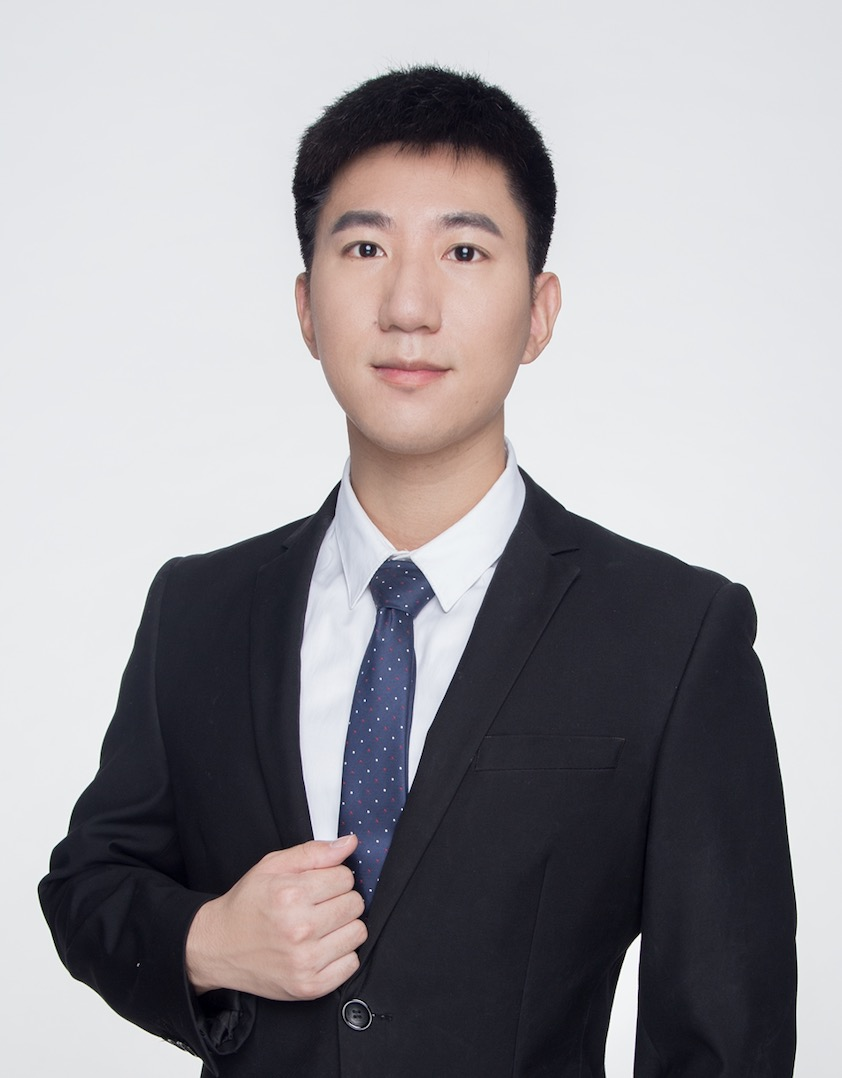
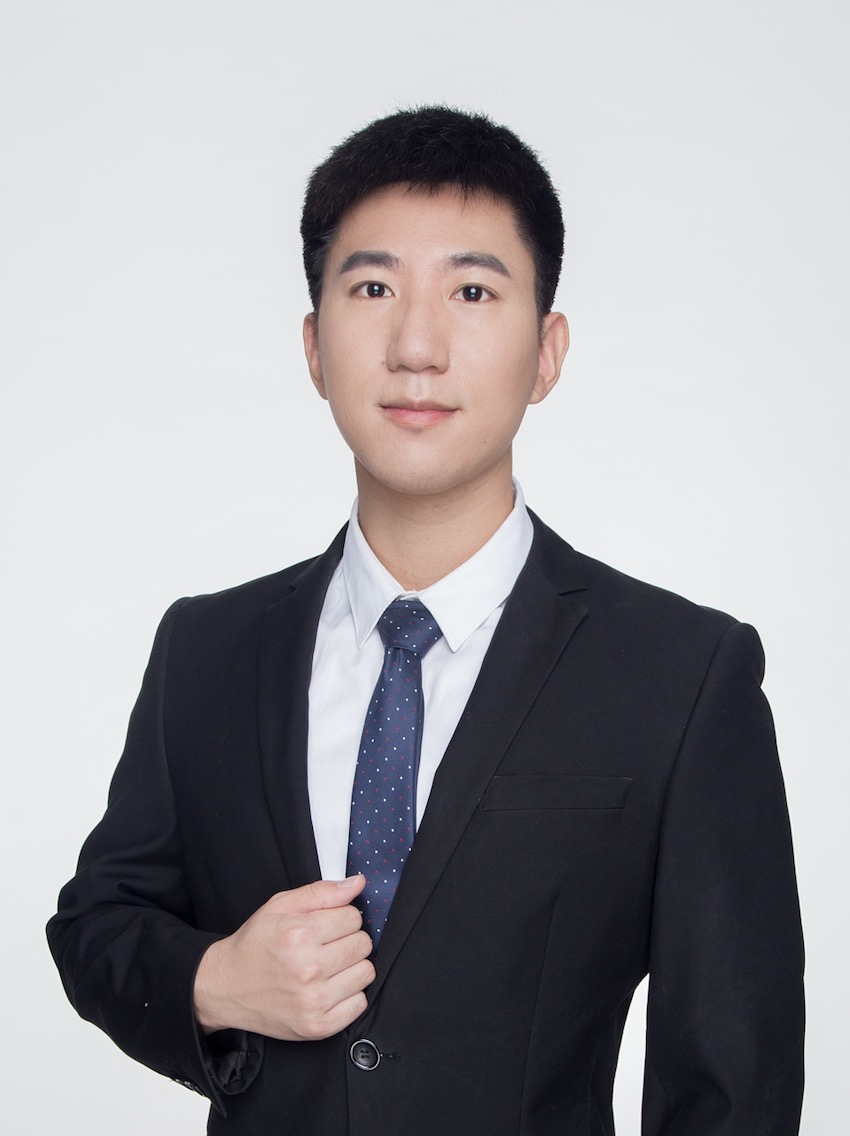
rebuilding site Fri 31 May 2019 00:04:14 CST

diff --git a/authors/admin/index.html b/authors/admin/index.html
@@ -336,7 +336,7 @@
 
       
       
-      <img class="portrait" src="/authors/admin/avatar_hu49b520efb2e95a6ee537b02ec5b1b836_107765_250x250_fill_q90_lanczos_center.jpg" itemprop="image" alt="Avatar">
+      <img class="portrait" src="/authors/admin/avatar_hu49b520efb2e95a6ee537b02ec5b1b836_109793_250x250_fill_q90_lanczos_center.jpg" itemprop="image" alt="Avatar">
       
 
       <div class="portrait-title">

diff --git a/index.html b/index.html
@@ -371,7 +371,7 @@
 
       
       
-      <img class="portrait" src="/authors/admin/avatar_hu49b520efb2e95a6ee537b02ec5b1b836_107765_250x250_fill_q90_lanczos_center.jpg" itemprop="image" alt="Avatar">
+      <img class="portrait" src="/authors/admin/avatar_hu49b520efb2e95a6ee537b02ec5b1b836_109793_250x250_fill_q90_lanczos_center.jpg" itemprop="image" alt="Avatar">
       
 
       <div class="portrait-title">
